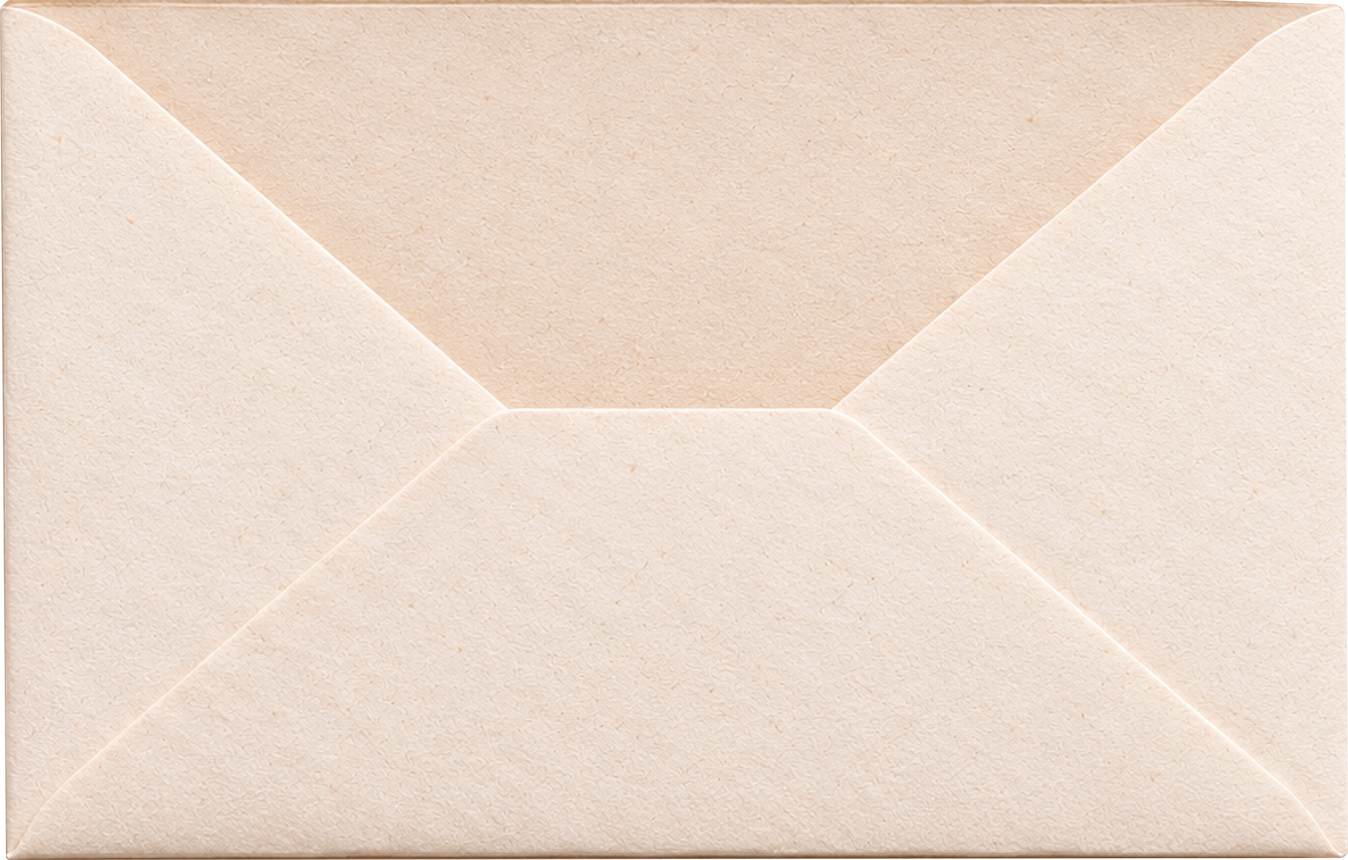
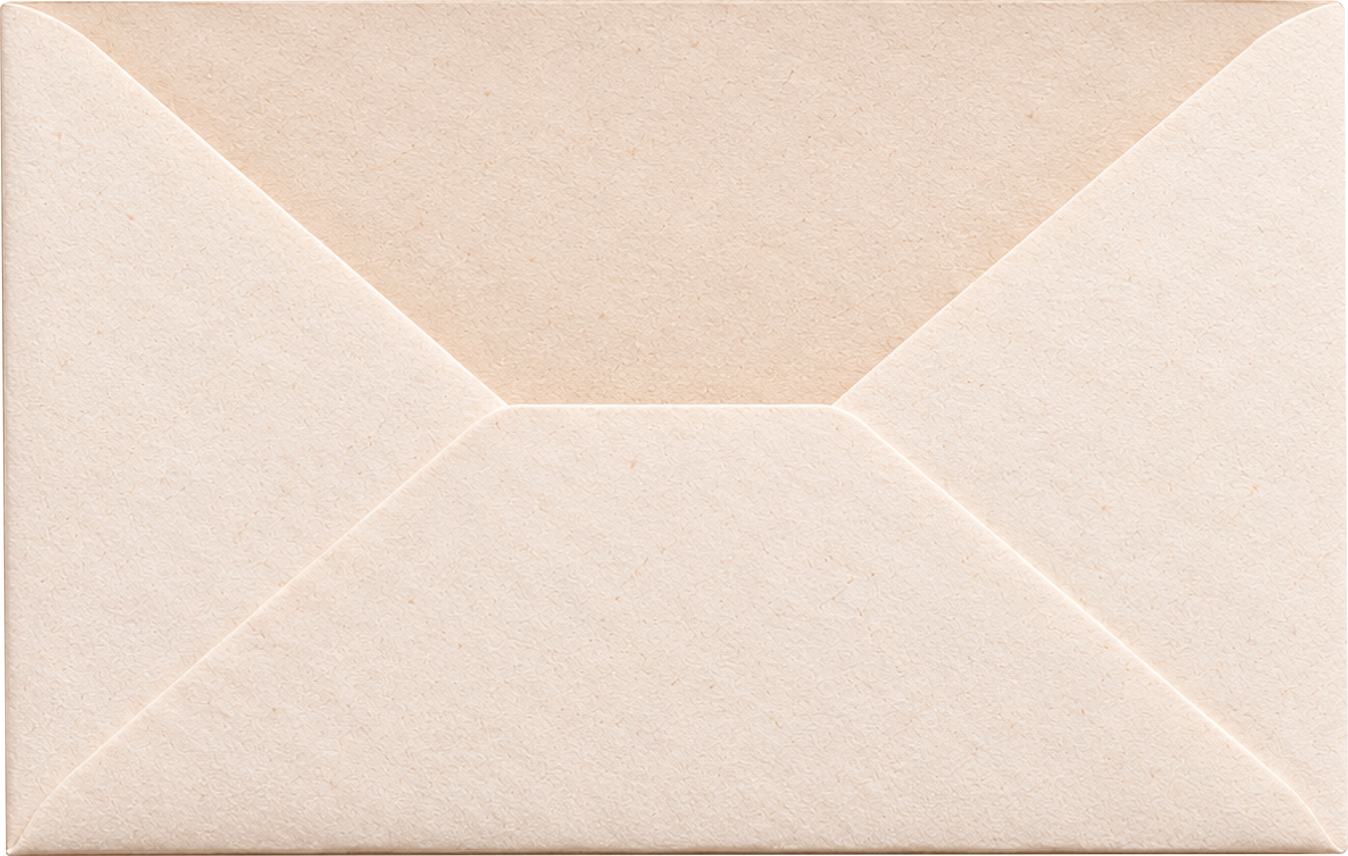
Rework envelope opening with flap-flatten + frame swap

diff --git a/v3/index.html b/v3/index.html
@@ -78,10 +78,8 @@
     z-index: 1000;
     background: var(--cream);
     display: flex;
-    flex-direction: column;
     align-items: center;
     justify-content: center;
-    gap: 28px;
     overflow: hidden;
     transition: opacity 0.7s ease;
   }
@@ -99,27 +97,48 @@
   }
   @media (max-width: 600px){
     .envelope-stage{
-      width: 130vw;
+      width: auto;
+      height: 100vh;
     }
   }
-  .envelope-bottom{
+  .envelope-bottom-stack{
     position: absolute;
-    top: 0;
+    inset: 0;
+    z-index: 1;
+  }
+  @keyframes envelopeFrameCycle{
+    0%   { opacity: 0; transform: translateY(0); }
+    20%  { opacity: 1; transform: translateY(0); }
+    55%  { opacity: 1; transform: translateY(0); }
+    100% { opacity: 0; transform: translateY(70px); }
+  }
+  .envelope-bottom-frame{
+    position: absolute;
+    bottom: 0;
     left: 0;
     width: 100%;
+    height: auto;
     display: block;
-    z-index: 1;
+    opacity: 0;
     filter:
       drop-shadow(0 2px 3px rgba(107,67,33,0.16))
       drop-shadow(0 16px 24px rgba(107,67,33,0.22))
       drop-shadow(0 38px 54px rgba(107,67,33,0.2));
-    transition: transform 0.9s cubic-bezier(0.6,0,0.3,1);
+  }
+  .envelope-bottom-frame.is-base{
+    opacity: 1;
+    transition: opacity 0.5s ease;
+  }
+  .envelope-bottom-frame.is-base.is-fading-base{
+    opacity: 0;
+  }
+  .envelope-bottom-frame.is-cycling{
+    animation: envelopeFrameCycle 0.9s ease forwards;
   }
   .envelope-top-group{
     position: absolute;
     inset: 0;
     z-index: 2;
-    transition: transform 0.9s cubic-bezier(0.6,0,0.3,1);
   }
   .envelope-flap{
     position: absolute;
@@ -127,10 +146,12 @@
     left: 0;
     width: 100%;
     display: block;
+    transform-origin: top center;
     filter:
       drop-shadow(0 2px 4px rgba(107,67,33,0.2))
       drop-shadow(0 10px 16px rgba(107,67,33,0.22))
       drop-shadow(0 22px 30px rgba(107,67,33,0.16));
+    transition: transform 0.55s cubic-bezier(0.6,0,0.3,1), opacity 0.5s ease 0.15s;
   }
   .wax-seal{
     position: absolute;
@@ -143,6 +164,7 @@
     border: none;
     padding: 0;
     cursor: pointer;
+    transition: opacity 0.3s ease, transform 0.3s ease;
   }
   .wax-seal img{
     width: 100%;
@@ -158,6 +180,12 @@
     transform: scale(1.04);
   }
   .envelope-hint{
+    position: absolute;
+    left: 50%;
+    top: 74%;
+    transform: translateX(-50%);
+    width: max-content;
+    z-index: 3;
     font-family: "EB Garamond", serif;
     font-style: italic;
     letter-spacing: 0.15em;
@@ -165,11 +193,13 @@
     color: var(--ink-soft);
     transition: opacity 0.3s ease;
   }
-  .envelope-intro.is-opening .envelope-top-group{
-    transform: translateY(-70vh);
+  .envelope-intro.is-opening .envelope-flap{
+    transform: scaleY(0.15);
+    opacity: 0;
   }
-  .envelope-intro.is-opening .envelope-bottom{
-    transform: translateY(70vh);
+  .envelope-intro.is-opening .wax-seal{
+    opacity: 0;
+    transform: translate(-50%, -85%) scale(1.08);
   }
   .envelope-intro.is-opening .envelope-hint{
     opacity: 0;
@@ -682,15 +712,18 @@
 
   <div class="envelope-intro" id="envelope-intro">
     <div class="envelope-stage">
-      <img class="envelope-bottom" src="images/envelope-bottom.png" alt="">
+      <div class="envelope-bottom-stack" id="envelope-bottom-stack">
+        <img class="envelope-bottom-frame is-base" src="images/envelope-bottom3.png" alt="">
+        <img class="envelope-bottom-frame" src="images/envelope-bottom2.png" alt="">
+      </div>
       <div class="envelope-top-group">
         <img class="envelope-flap" src="images/envelope-flap.png" alt="">
         <button type="button" class="wax-seal" id="wax-seal" aria-label="拆開信封">
           <img src="images/wax-seal.png" alt="">
         </button>
       </div>
+      <p class="envelope-hint">點擊封蠟，拆開信封</p>
     </div>
-    <p class="envelope-hint">點擊封蠟，拆開信封</p>
   </div>
 
   <section class="hero">
@@ -824,17 +857,28 @@
     if (!intro || !seal) return;
 
     const heroFrame = document.getElementById('hero-frame');
+    const bottomFrames = document.querySelectorAll('#envelope-bottom-stack .envelope-bottom-frame');
+
+    function cycleFrame(i){
+      bottomFrames[i].classList.add('is-cycling');
+    }
 
     seal.addEventListener('click', () => {
-      intro.classList.add('is-opening');
+      intro.classList.add('is-opening'); // flattens+fades flap, pops+fades wax seal
+
       setTimeout(() => {
-        intro.classList.add('is-hidden');
-        document.body.classList.remove('envelope-locked');
-        if (heroFrame) heroFrame.classList.add('in');
+        cycleFrame(1); // bottom2: appears, then drifts down + fades
+        bottomFrames[0].classList.add('is-fading-base'); // bottom3 fades away underneath
       }, 300);
+
+      setTimeout(() => {
+        intro.classList.add('is-hidden'); // whole cover fades together with bottom2's own drift-fade
+        document.body.classList.remove('envelope-locked');
+        if (heroFrame) heroFrame.classList.add('in'); // photo rises into view sooner
+      }, 350);
       setTimeout(() => {
         intro.style.display = 'none';
-      }, 1000);
+      }, 1100);
     }, { once: true });
   })();
 
